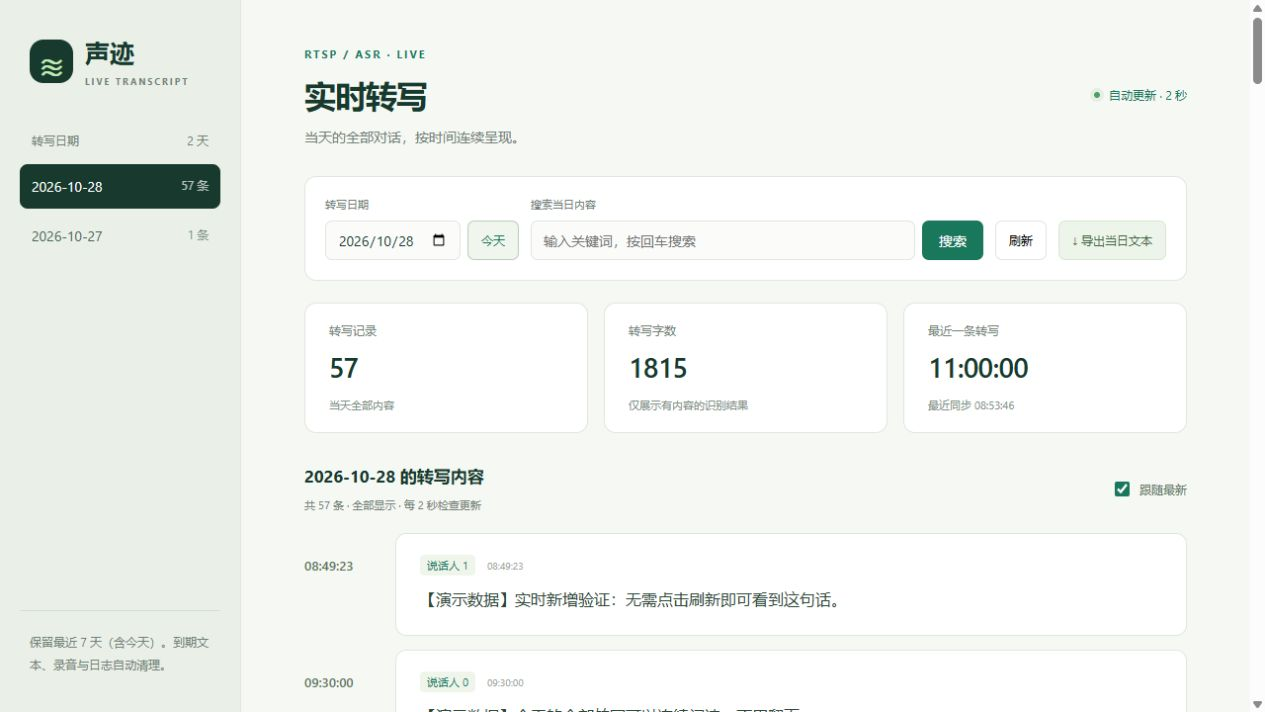
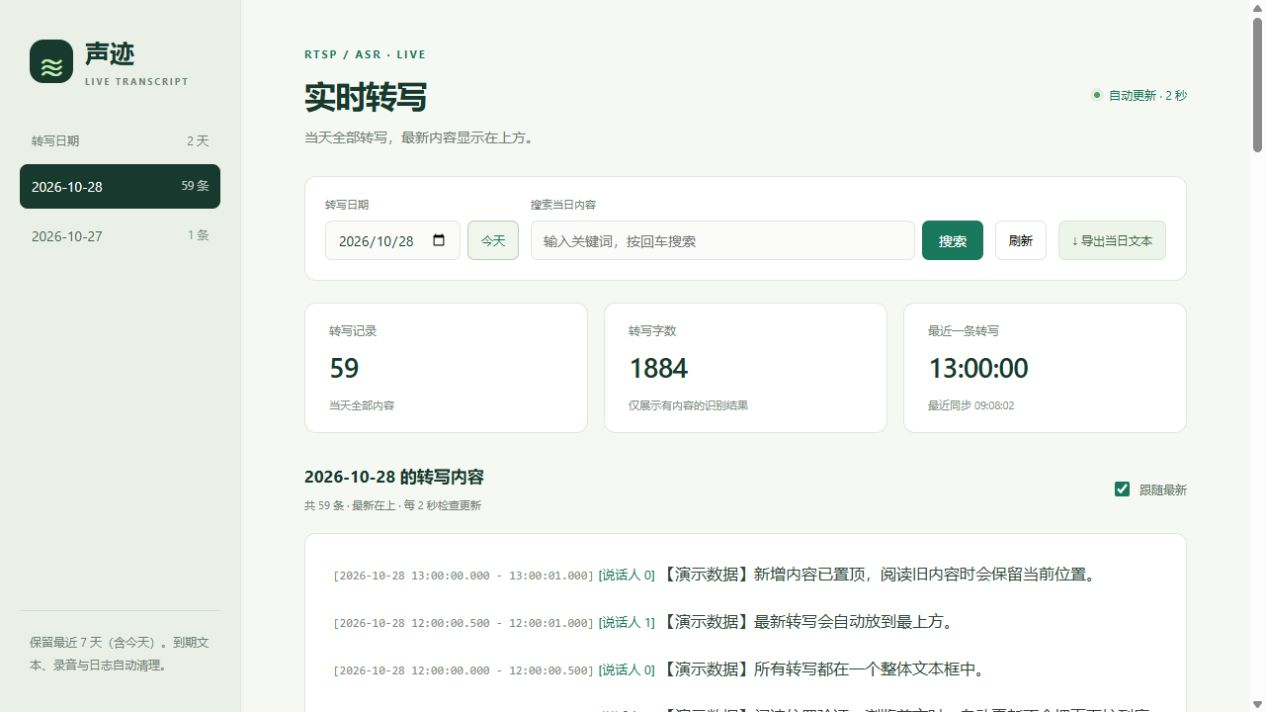
Simplify transcript logs and show newest text in one panel

diff --git a/static/app.js b/static/app.js
@@ -10,31 +10,32 @@ function el(tag, className, text) {
   if (text !== undefined) node.textContent = text;
   return node;
 }
-function clock(startedAt, offset=0) {
+function timestamp(startedAt, offset=0) {
   // Treat the server's local clock as a civil time, without browser TZ conversion.
   const time = Date.parse(startedAt.slice(0,23) + "Z") + offset*1000;
-  return Number.isFinite(time) ? new Date(time).toISOString().slice(11,19) : startedAt.slice(11,19);
+  return Number.isFinite(time) ? new Date(time).toISOString().slice(0,23).replace("T"," ") : startedAt.replace("T"," ");
+}
+function clock(startedAt, offset=0) {
+  return timestamp(startedAt,offset).slice(11,19);
 }
 function buildRecord(record) {
-  const article = el("article", "record");
+  const article = el("div", "record");
   article.dataset.recordId = record.id;
-  const time = el("time", "time", clock(record.started_at));
-  time.dateTime = record.started_at;
-  const card = el("div", "card");
-  const segments = record.segments.length ? record.segments : [{speaker:"未知说话人",start:0,text:record.text}];
+  const segments = record.segments.length ? [...record.segments] : [{speaker:"未知说话人",start:0,end:record.duration,text:record.text}];
+  segments.sort((a,b) => (b.start || 0) - (a.start || 0));
   for (const item of segments) {
-    const line = el("div", "segment");
-    const meta = el("div", "segment-meta");
-    meta.append(el("span", "speaker", item.speaker || "未知说话人"),
-                el("span", "segment-time", clock(record.started_at, item.start || 0)));
-    line.append(meta, el("p", "", item.text));
-    card.append(line);
+    const line = el("p", "transcript-line");
+    const begin = timestamp(record.started_at,item.start || 0);
+    const end = timestamp(record.started_at,item.end ?? record.duration).slice(11);
+    line.append(el("span", "transcript-time", `[${begin} - ${end}]`),document.createTextNode(" "),
+                el("span", "transcript-speaker", `[${item.speaker || "未知说话人"}]`),document.createTextNode(" "),
+                el("span", "transcript-text", item.text));
+    article.append(line);
   }
-  article.append(time, card);
   return article;
 }
-function nearBottom() {
-  return window.scrollY + window.innerHeight >= document.documentElement.scrollHeight - 150;
+function nearLatest() {
+  return $("records").getBoundingClientRect().top >= -120;
 }
 function clearUnseen() {
   unseen = 0;
@@ -42,7 +43,8 @@ function clearUnseen() {
 }
 function scrollToLatest() {
   $("follow").checked = true;
-  window.scrollTo({top:document.documentElement.scrollHeight,behavior:"auto"});
+  const top = $("records").getBoundingClientRect().top + window.scrollY;
+  window.scrollTo({top:Math.max(0,Math.min(window.scrollY,top-100)),behavior:"auto"});
   clearUnseen();
 }
 function resetView() {
@@ -91,10 +93,10 @@ function showMeta(data) {
 }
 function reconcile(items, key) {
   const sameView = renderedKey === key;
-  const shouldFollow = $("follow").checked && (!sameView || nearBottom());
+  const shouldFollow = $("follow").checked && sameView && nearLatest();
   const container = $("records"), next = new Map();
   let cursor = container.firstChild, added = 0;
-  for (const record of items) {
+  for (const record of [...items].reverse()) {
     const signature = JSON.stringify([record.started_at,record.text,record.segments]);
     const previous = rendered.get(record.id);
     let node;
@@ -118,7 +120,7 @@ function reconcile(items, key) {
     requestAnimationFrame(() => {if (renderedKey === key && $("follow").checked) scrollToLatest();});
   } else if (sameView && added) {
     unseen += added;
-    $("newResults").textContent = `${unseen} 条新转写 · 查看最新 ↓`;
+    $("newResults").textContent = `${unseen} 条新转写 · 查看最新 ↑`;
     $("newResults").hidden = false;
   }
 }
@@ -156,7 +158,7 @@ async function refresh(force=false) {
       $("characters").textContent = data.summary.characters;
       $("latest").textContent = data.items.length ? clock(data.items[data.items.length-1].started_at) : "—";
       $("scope").textContent = query ? `关键词「${query}」的结果` : "当天全部内容";
-      $("recordInfo").textContent = `共 ${data.summary.count} 条 · 全部显示 · 每 2 秒检查更新`;
+      $("recordInfo").textContent = `共 ${data.summary.count} 条 · 最新在上 · 每 2 秒检查更新`;
     }
     $("listTitle").textContent = `${selectedDate} 的转写内容`;
     $("export").href = `/api/export?${new URLSearchParams({date:selectedDate})}`;
@@ -192,7 +194,7 @@ $("today").addEventListener("click",() => changeDay(serverToday || selectedDate,
 $("refresh").addEventListener("click",() => refresh(true));
 $("follow").addEventListener("change",() => {if ($("follow").checked) scrollToLatest();});
 $("newResults").addEventListener("click",scrollToLatest);
-window.addEventListener("scroll",() => {if (unseen && nearBottom()) clearUnseen();},{passive:true});
+window.addEventListener("scroll",() => {if (unseen && nearLatest()) clearUnseen();},{passive:true});
 document.addEventListener("visibilitychange",() => {if (!document.hidden) refresh();});
 window.addEventListener("online",() => refresh());
 setInterval(() => {if (!document.hidden && !activeRequest) refresh();},2000);

diff --git a/static/style.css b/static/style.css
@@ -54,15 +54,13 @@ header p { color: var(--muted); margin: 0; }
 .follow input { accent-color: var(--green); width: 15px; height: 15px; }
 #notice { padding: 30px; text-align: center; color: var(--muted); border: 1px dashed #cbd9ce; border-radius: 10px; background: #f0f4ed; line-height: 1.9; }
 #notice.error { color: #a53f32; background: #fff3ee; }
-.record { display: grid; grid-template-columns: 76px 1fr; gap: 16px; margin-bottom: 14px; scroll-margin-bottom: 25px; }
-.time { padding-top: 24px; font-variant-numeric: tabular-nums; font-weight: 600; font-size: 13px; color: #5d7664; }
-.card { border: 1px solid var(--line); background: white; border-radius: 11px; padding: 6px 24px; }
-.segment { padding: 15px 0; }
-.segment + .segment { border-top: 1px solid #edf1e9; }
-.segment-meta { display: flex; gap: 12px; align-items: center; margin-bottom: 8px; }
-.speaker { font-size: 11px; color: var(--green); background: #f0f5ec; padding: 3px 7px; border-radius: 4px; overflow-wrap: anywhere; }
-.segment-time { color: #9ba79d; font-size: 10px; font-variant-numeric: tabular-nums; }
-.segment p { margin: 0; font-size: 16px; line-height: 1.95; color: #2e4838; white-space: pre-wrap; overflow-wrap: anywhere; }
+.transcript-sheet { border: 1px solid var(--line); border-radius: 11px; background: white; padding: 24px 28px; }
+.transcript-sheet:empty { display: none; }
+.record { margin: 0; padding: 0; }
+.transcript-line { margin: 0 0 16px; font-size: 16px; line-height: 2; color: #2e4838; white-space: pre-wrap; overflow-wrap: anywhere; }
+.record:last-child .transcript-line:last-child { margin-bottom: 0; }
+.transcript-time { color: #7d8e80; font-family: Consolas, monospace; font-size: 12px; font-variant-numeric: tabular-nums; }
+.transcript-speaker { color: var(--green); font-size: 13px; }
 .new-results { position: fixed; right: 28px; bottom: 28px; z-index: 5; border: 1px solid #115a44; border-radius: 24px; padding: 13px 22px; color: white; background: var(--green); box-shadow: 0 5px 22px #17392e22; }
 footer { color: #8b988e; font-size: 10px; margin: 38px 0 8px; border-top: 1px solid var(--line); padding-top: 18px; }
 button:hover:not(:disabled), .download:hover { filter: brightness(.97); }
@@ -74,8 +72,7 @@ button:hover:not(:disabled), .download:hover { filter: brightness(.97); }
   .stats { gap: 10px; }
   .stats > div { padding: 17px 14px; }
   .stats strong { font-size: 25px; }
-  .record { grid-template-columns: 67px 1fr; gap: 10px; }
-  .card { padding-left: 18px; padding-right: 18px; }
+  .transcript-sheet { padding: 20px; }
   .live { font-size: 10px; }
 }
 @media (max-width: 740px) {
@@ -100,10 +97,9 @@ button:hover:not(:disabled), .download:hover { filter: brightness(.97); }
   #latest { font-size: 19px; }
   .stats small { font-size: 9px; line-height: 1.6; display: block; }
   .stats span { font-size: 10px; }
-  .record { display: block; }
-  .time { display: block; padding: 0 0 8px; font-size: 12px; }
-  .card { padding: 3px 16px; }
-  .segment p { font-size: 15px; }
+  .transcript-sheet { padding: 18px 16px; }
+  .transcript-line { font-size: 15px; margin-bottom: 18px; }
+  .transcript-time { font-size: 11px; }
   .section-title h2 { font-size: 15px; }
   .section-title span { font-size: 10px; }
   .follow { font-size: 11px; }

diff --git a/static/index.html b/static/index.html
@@ -14,7 +14,7 @@
     <p class="side-note" id="retention">正在读取归档信息…</p>
   </aside>
   <main>
-    <header><div><span class="eyebrow">RTSP / ASR · LIVE</span><h1>实时转写</h1><p>当天的全部对话，按时间连续呈现。</p></div><span class="live" id="connection"><i></i><span id="syncState">正在连接…</span></span></header>
+    <header><div><span class="eyebrow">RTSP / ASR · LIVE</span><h1>实时转写</h1><p>当天全部转写，最新内容显示在上方。</p></div><span class="live" id="connection"><i></i><span id="syncState">正在连接…</span></span></header>
     <section class="toolbar" aria-label="查询条件">
       <div><label for="date">转写日期</label><div class="date-controls"><input type="date" id="date"><button id="today" class="outline" type="button">今天</button></div></div>
       <form id="searchForm"><label for="query">搜索当日内容</label><div class="search"><input type="search" id="query" placeholder="输入关键词，按回车搜索" maxlength="500"><button type="submit">搜索</button></div></form>
@@ -27,7 +27,7 @@
     </section>
     <section class="timeline"><div class="section-title"><div><h2 id="listTitle">当天转写</h2><span id="recordInfo">自动更新 · 每 2 秒检查</span></div><label class="follow"><input id="follow" type="checkbox" checked>跟随最新</label></div>
       <p id="notice" role="status" aria-live="polite">正在读取转写内容…</p>
-      <div id="records"></div>
+      <div id="records" class="transcript-sheet" role="region" aria-label="当日全部转写文本"></div>
     </section>
     <footer>显示 ASR 完成后的有效文本 · 时间使用采集端时区 <span id="timezone"></span></footer>
   </main>

diff --git a/tests/test_archive.py b/tests/test_archive.py
@@ -110,18 +110,35 @@ class ArchiveTests(unittest.TestCase):
         self.assertFalse(list(Path(self.temp.name).rglob("*.txt")))
         self.assertEqual(self.store.days(),[])
 
-    def test_daily_txt_contains_chinese_timestamps_speaker_and_audio(self):
-        record_id = self.add("你好，自动保存文本。")
+    def test_daily_txt_contains_compact_ranges_speaker_and_text(self):
+        self.add("你好，自动保存文本。")
         self.add("第二条内容。",start=self.start+dt.timedelta(seconds=5))
         text = self.store.transcript_path(self.day).read_text(encoding="utf-8")
         self.assertIn(f"{self.day} ASR 记录",text)
-        self.assertIn(f"{self.day} 09:00:00.100",text)
-        self.assertIn(f"{self.day} 09:00:00.900",text)
-        self.assertIn("[speaker_0] 你好，自动保存文本。",text)
+        self.assertIn(f"[{self.day} 09:00:00.100 - 09:00:00.900] [speaker_0] 你好，自动保存文本。",text)
         self.assertEqual(text.count("第二条内容。"),1)
-        self.assertIn("audio/"+self.store.record(self.day,record_id)["audio_file"],text)
+        for removed in ("时长", "音频:", "audio/", ".wav", f"{self.day} 09:00:00.900", "09:00:00.000"):
+            self.assertNotIn(removed,text)
         exported = self.client.get(f"/api/export?date={self.day}").get_data(as_text=True)
         self.assertEqual(exported,text)
+
+    def test_compact_txt_range_handles_midnight(self):
+        start = self.start.replace(hour=23,minute=59,second=59,microsecond=700000)
+        self.add("跨午夜内容",start=start)
+        text = self.store.transcript_path(self.day).read_text(encoding="utf-8")
+        self.assertIn(f"[{self.day} 23:59:59.800 - 00:00:00.600] [speaker_0] 跨午夜内容",text)
+
+    def test_upgrade_rewrites_existing_verbose_txt(self):
+        self.add("保留正文")
+        target = self.store.transcript_path(self.day)
+        target.write_text(f"[{self.day} 09:00:00.000] 时长 1.00s\n音频: audio/old.wav\n"
+                          f"[{self.day} 09:00:00.100 - {self.day} 09:00:00.900] [speaker_0] 保留正文\n",encoding="utf-8")
+        self.store.sync_transcripts()
+        text = target.read_text(encoding="utf-8")
+        self.assertIn(f"[{self.day} 09:00:00.100 - 09:00:00.900] [speaker_0] 保留正文",text)
+        self.assertNotIn("时长",text)
+        self.assertNotIn("音频:",text)
+        self.assertEqual(text.count("保留正文"),1)
 
     def test_daily_txt_backfills_old_records_and_repairs_without_duplicates(self):
         self.add("较晚内容",start=self.start+dt.timedelta(seconds=5))

diff --git a/storage.py b/storage.py
@@ -104,16 +104,16 @@ class Store:
     @staticmethod
     def _format_transcript_record(row):
         started = dt.datetime.fromisoformat(row["started_at"])
-        timestamp = lambda value: value.isoformat(sep=" ", timespec="milliseconds")
-        lines = [f"\n[{timestamp(started)}] 时长 {row['duration']:.2f}s\n",
-                 f"音频: audio/{row['audio_file']}\n"]
+        lines = []
         segments = json.loads(row["segments"])
         if not segments:
             segments = [{"start":0, "end":row["duration"], "speaker":"未知说话人", "text":row["text"]}]
         for segment in segments:
             begin = started + dt.timedelta(seconds=segment.get("start", 0))
             end = started + dt.timedelta(seconds=segment.get("end", row["duration"]))
-            lines.append(f"[{timestamp(begin)} - {timestamp(end)}] "
+            begin_text = begin.strftime("%Y-%m-%d %H:%M:%S.%f")[:-3]
+            end_text = end.strftime("%H:%M:%S.%f")[:-3]
+            lines.append(f"[{begin_text} - {end_text}] "
                          f"[{segment.get('speaker', '未知说话人')}] {segment['text']}\n")
         return "".join(lines)
 

diff --git a/README.md b/README.md
@@ -56,11 +56,11 @@ Docker 构建时 APT 使用[清华 TUNA Debian 镜像](https://mirrors.tuna.tsin
 
 ## 网页实时转写
 
-默认选择采集端时区的今天，按录音时间完整展示当天全部有效 ASR 文本，超过 50 条也不分页。每条记录显示时间、说话人和转写文字，页面没有音频播放器或录音下载控件；WAV 仍按原规则保存在项目 `data/` 目录。
+默认选择采集端时区的今天，在**一个整体文本框**中完整展示当天全部有效 ASR 文本，按时间倒序排列，最新内容在上方，超过 50 条也不分页。每行显示精简时间范围、说话人和转写文字，没有单条记录卡片、音频播放器或录音下载控件；WAV 仍按原规则保存在项目 `data/` 目录。
 
 页面每 2 秒检查一次更新，**ASR 结果保存后通常在下一轮检查时显示**，时间还受网络影响。采集分段和 ASR 推理本身仍需要时间，这不是逐字流式识别。没有变化时接口返回 HTTP 304，不重复传输当天全部文字；有新内容时更新已有列表，保持阅读位置，不整页刷新。
 
-启用“跟随最新”且在列表底部时，新转写会自动滚动到最新位置；阅读较早内容时保留当前位置，并提示新增条数，点击“查看最新”即可跳到列表底部。取消勾选后仅更新文字，不自动滚动。切换日期可阅读历史，点击“今天”恢复跟随当天，跨午夜时会自动切换日期。搜索仅筛选当前日期的文本，搜索结果也会自动更新。
+启用“跟随最新”且在文本框顶部附近时，新转写会显示在最上方；向下阅读较早内容时保留阅读位置，并提示新增条数，点击“查看最新”即可回到文本框顶部。取消勾选后仅更新文字，不自动滚动。切换日期可阅读历史，点击“今天”恢复跟随当天，跨午夜时会自动切换日期。搜索仅筛选当前日期的文本，搜索结果也会自动更新。
 
 连接暂时中断时保留已显示的文字并自动重试；浏览器标签页隐藏时暂停轮询，返回页面会立即同步。
 
@@ -121,17 +121,15 @@ CLEANUP_INTERVAL_SECONDS=3600
 
 音频是独立 WAV 文件，ASR 内容同时保存在每日 TXT 和 SQLite 中：TXT 便于直接阅读，SQLite 继续用于网页搜索与索引。`data/` 自动创建，`data-init` 初始化服务负责把目录及已有文件的所有者设置为容器 UID/GID `10001:10001`，之后采集和网页服务仍以普通用户运行；Linux 服务器上无需另行手工 chown。目录中的文件可在宿主机查看、复制，停止或重建容器不会删除它们，过期清理仍按 `.env` 执行。
 
-每条成功转写完成后即时追加至 `data/日期/asr_日期.txt`，无需额外配置。内容包含录音起始时间、时长、WAV 相对路径，以及每个说话片段的实际起止时间、说话人和文本。例如：
+每条成功转写完成后即时追加至 `data/日期/asr_日期.txt`，无需额外配置。每个说话片段只保留时间范围、说话人和文本，不写入音频路径、录音时长或额外的录音起始行。开始时间带完整日期，结束时间仅保留时分秒和毫秒。例如：
 
 ```text
 2026-10-28 ASR 记录（Asia/Shanghai）
 
-[2026-10-28 09:30:00.000] 时长 3.00s
-音频: audio/meeting_09-30-00-000000_<UUID>.wav
-[2026-10-28 09:30:00.100 - 2026-10-28 09:30:02.800] [speaker_0] 今天开始会议。
+[2026-10-28 09:30:00.100 - 09:30:02.800] [speaker_0] 今天开始会议。
 ```
 
-多个 ASR worker 按完成顺序追加；采集器启动和每轮定时清理时，会从数据库按录音时间重新整理 TXT，补齐已有历史转写、修复丢失或不完整的 TXT，不重复写入记录。TXT 写入失败不会删除已经归档的数据库和音频，之后会重试同步。TXT 是自动生成的日志，手工修改会在同步时被数据库内容覆盖；网页“导出当日文本”使用相同格式并按录音时间排序。
+多个 ASR worker 按完成顺序追加；采集器启动和每轮定时清理时，会从数据库按录音时间重新整理 TXT，补齐已有历史转写、修复丢失或不完整的 TXT，不重复写入记录。升级启动时会将旧版冗长 TXT 自动改为上述精简格式。TXT 写入失败不会删除已经归档的数据库和音频，之后会重试同步。TXT 是自动生成的日志，手工修改会在同步时被数据库内容覆盖；网页“导出当日文本”使用相同精简格式并按录音时间正序排列，网页阅读界面按时间倒序排列。
 
 `data/` 已被 Git 和 Docker 构建忽略，不会随代码上传 GitHub 或打包进镜像。容器的 `DATA_DIR=/data` 是挂载路径，不需要在 `.env` 中修改它。首次启动但尚无成功转写时，可能还没有日期数据库或 WAV 文件。
 
